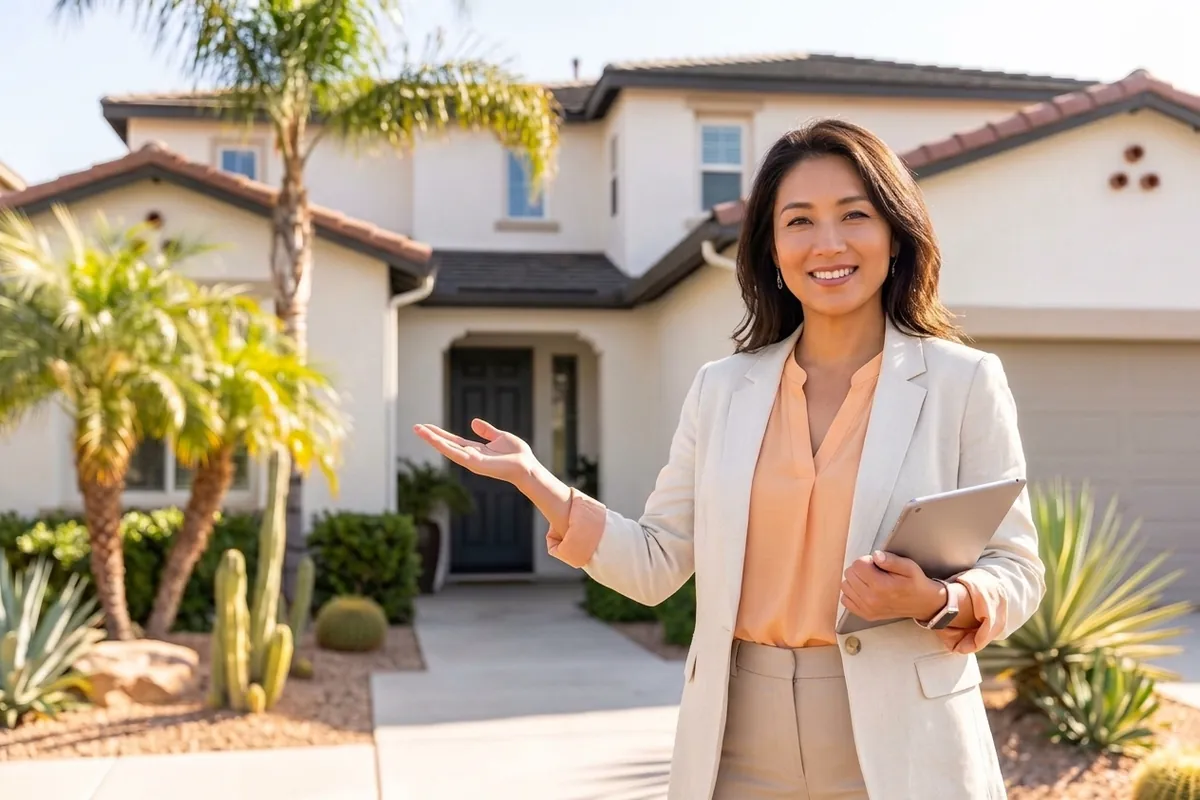
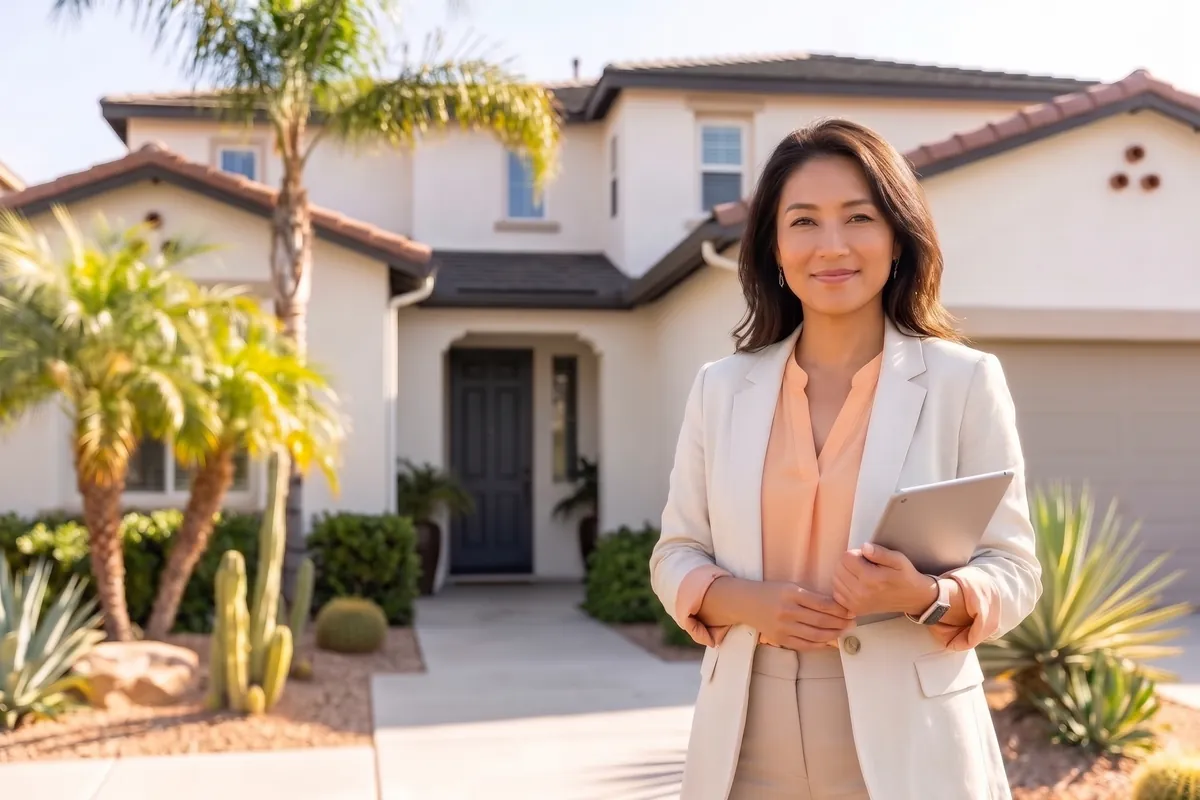
CA RE hero photo replaced (boss: pose duplicated other states)

diff --git a/re/ko/california/index.html b/re/ko/california/index.html
@@ -148,7 +148,7 @@
       <a class="hero-note-link" href="/install-guide.html?exam=re">설치 방법 →</a>
     </div>
   </div>
-  <div class="hero-demo" id="hero-rot"><img class="hero-photo rot-active" src="/re/img/hero-re-ca.webp?v=d9c28d9778" width="1200" height="800" alt="야자수와 선인장이 있는 스페인풍 집 앞에서 태블릿을 들고 안내하는 부동산 에이전트" fetchpriority="high"></div>
+  <div class="hero-demo" id="hero-rot"><img class="hero-photo rot-active" src="/re/img/hero-re-ca.webp?v=39b71e12b2" width="1200" height="800" alt="야자수와 선인장이 있는 스페인풍 집 앞에서 태블릿을 든 부동산 에이전트" fetchpriority="high"></div>
 </div></section>
 
 <section class="stats"><div class="wrap stats-grid"><div><div class="stat-num">1,800+</div><div class="stat-label">캘리포니아 주 문제</div></div><div><div class="stat-num">4,400+</div><div class="stat-label">전국 공통 문제</div></div><div><div class="stat-num">38개</div><div class="stat-label">캘리포니아 War Room 주제</div></div><div><div class="stat-num">Mock Exams</div><div class="stat-label">캘리포니아 시험 형식 모의고사</div></div><div><div class="stat-num">30일</div><div class="stat-label">무료 체험</div></div></div></section>

diff --git a/re/california/index.html b/re/california/index.html
@@ -148,7 +148,7 @@
       <a class="hero-note-link" href="/install-guide.html?exam=re">How to install →</a>
     </div>
   </div>
-  <div class="hero-demo" id="hero-rot"><img class="hero-photo rot-active" src="/re/img/hero-re-ca.webp?v=d9c28d9778" width="1200" height="800" alt="Real estate agent with a tablet welcoming visitors to a Spanish-style home with palm trees and cacti" fetchpriority="high"></div>
+  <div class="hero-demo" id="hero-rot"><img class="hero-photo rot-active" src="/re/img/hero-re-ca.webp?v=39b71e12b2" width="1200" height="800" alt="Real estate agent holding a tablet in front of a Spanish-style home with palm trees and cacti" fetchpriority="high"></div>
 </div></section>
 
 <section class="stats"><div class="wrap stats-grid"><div><div class="stat-num">1,800+</div><div class="stat-label">California Questions</div></div><div><div class="stat-num">4,400+</div><div class="stat-label">National Questions</div></div><div><div class="stat-num">38</div><div class="stat-label">California War Room Topics</div></div><div><div class="stat-num">Mock Exams</div><div class="stat-label">In California Exam Format</div></div><div><div class="stat-num">30 Days</div><div class="stat-label">Free Trial</div></div></div></section>
